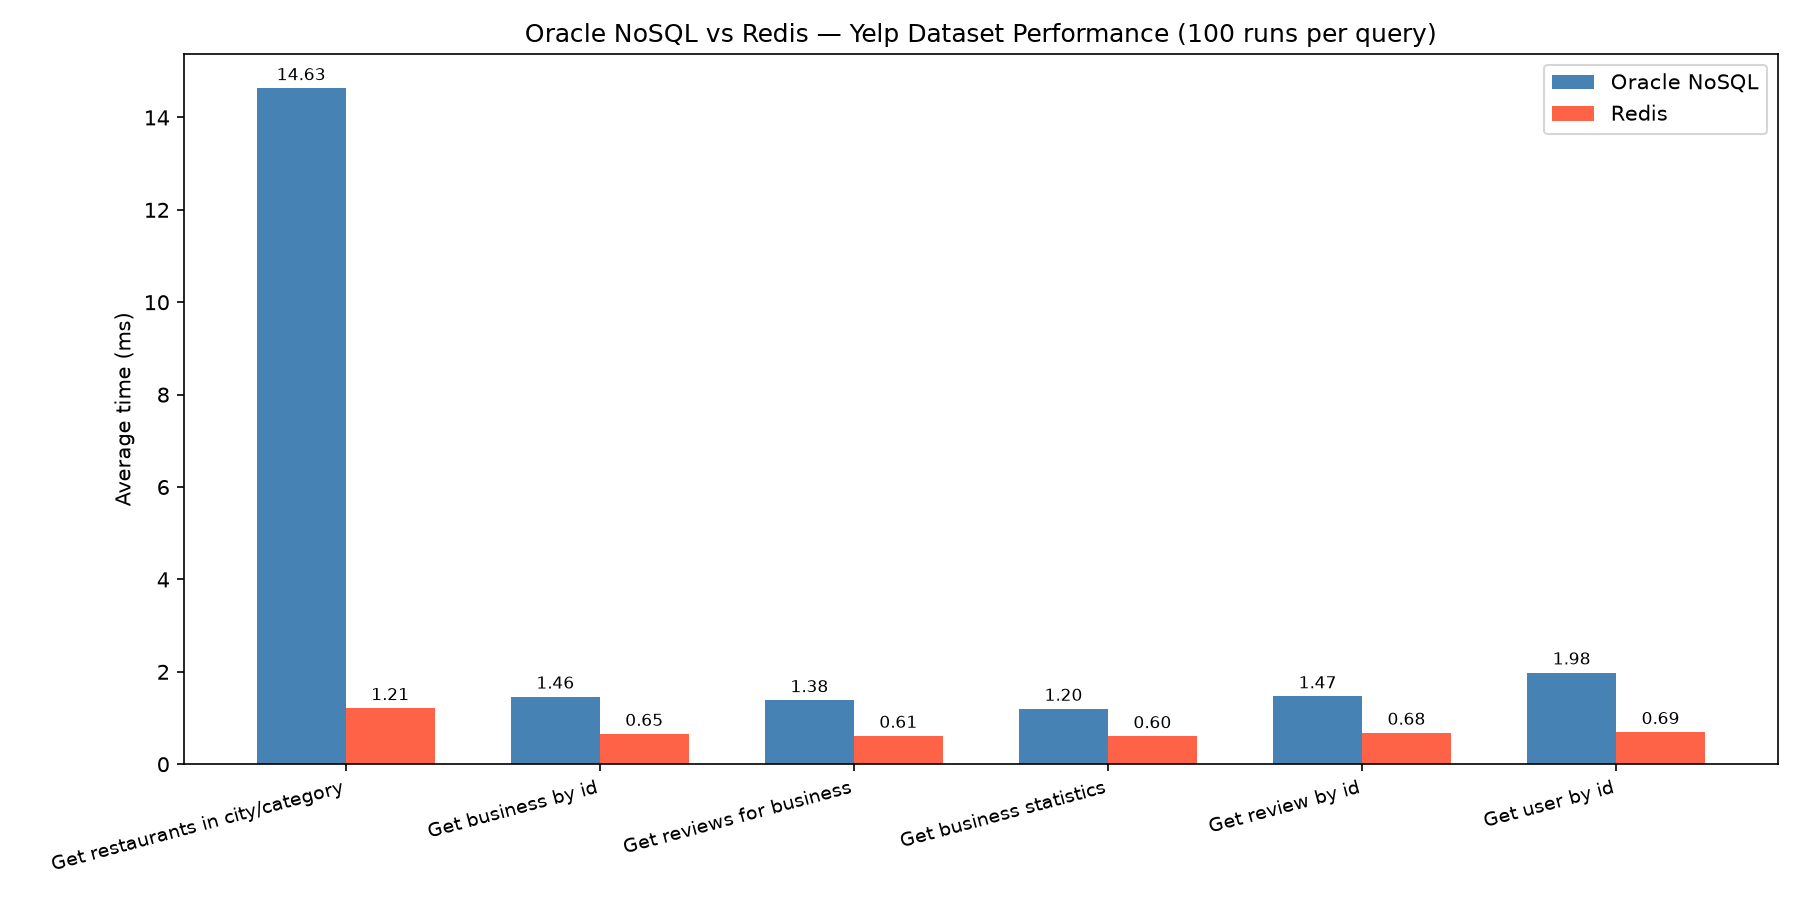
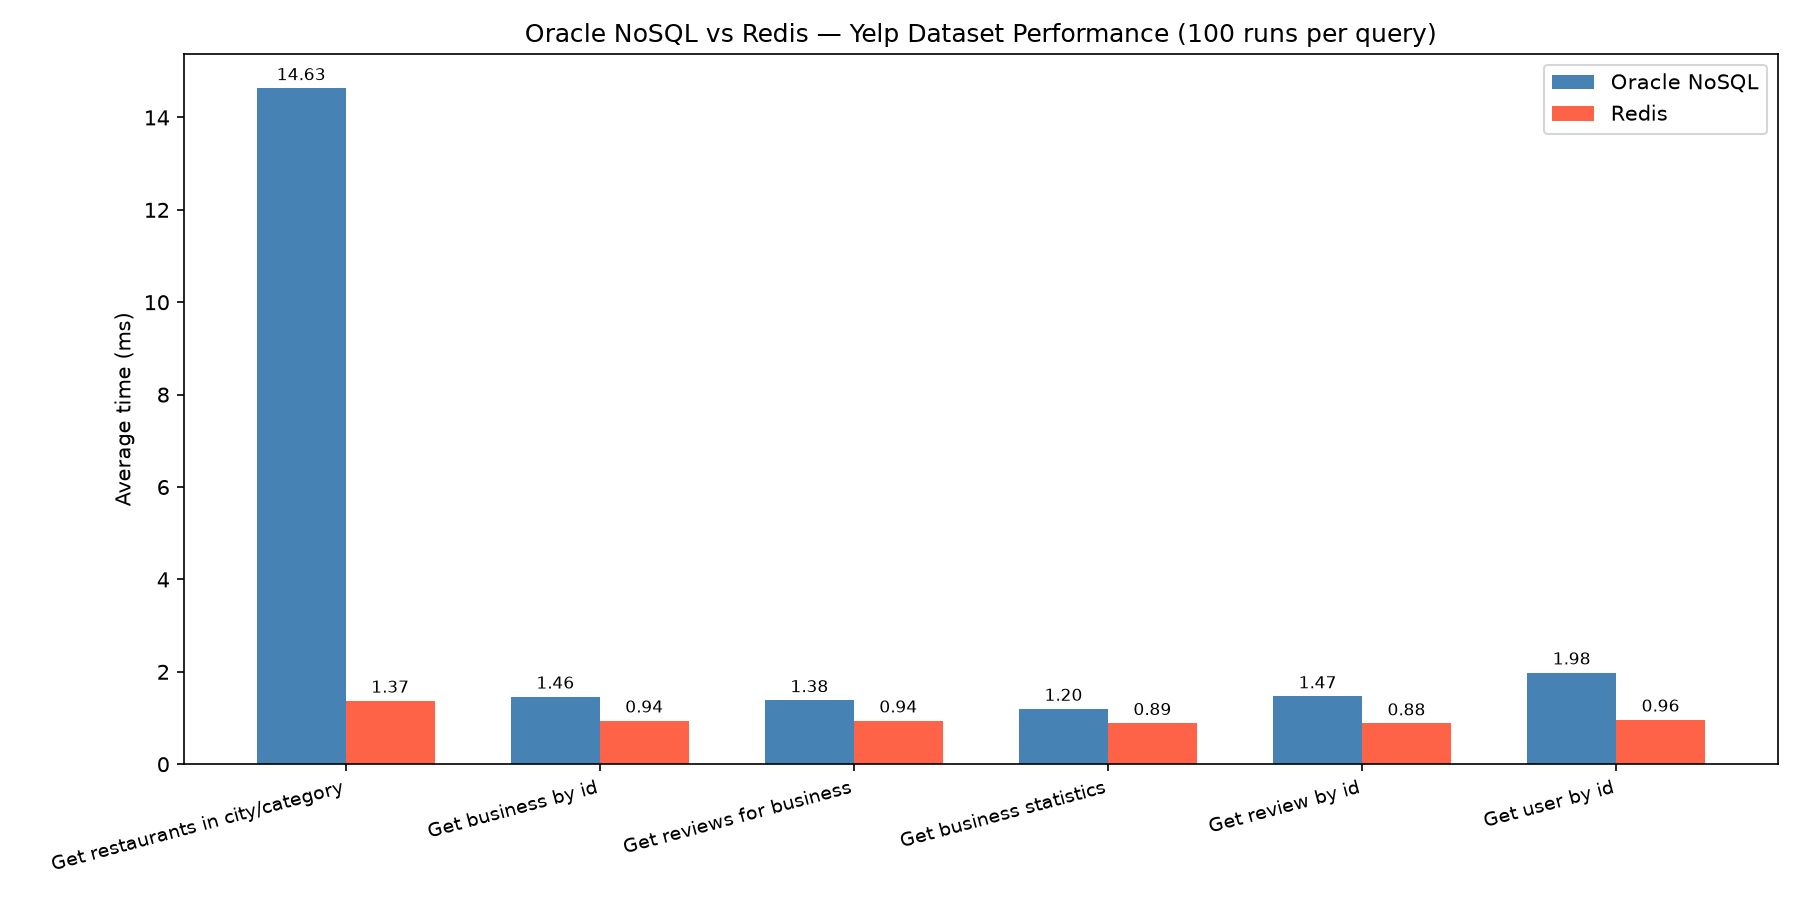
Initial commit

diff --git a/scripts/import_yelp_redis.py b/scripts/import_yelp_redis.py
@@ -12,7 +12,7 @@ USER_FILE     = DATA_DIR / "user_subset.jsonl"
 
 
 def get_client():
-    return redis.Redis(host="localhost", port=6380, decode_responses=True)
+    return redis.Redis(host="localhost", port=6379, decode_responses=True)
 
 
 def rset(r, key, value):
@@ -29,7 +29,7 @@ def load_jsonl(path):
 def main():
     r = get_client()
     r.ping()
-    print("Connected to Redis on port 6380.")
+    print("Connected to Redis on port 6379.")
 
     business_reviews   = defaultdict(list)
     user_reviews       = defaultdict(list)

diff --git a/scripts/performance_redis.py b/scripts/performance_redis.py
@@ -9,7 +9,7 @@ RESULTS_FILE = Path("results/redis_performance.csv")
 
 
 def get_client():
-    return redis.Redis(host="localhost", port=6380, decode_responses=True)
+    return redis.Redis(host="localhost", port=6379, decode_responses=True)
 
 
 def rget(r, key):

diff --git a/scripts/query_redis.py b/scripts/query_redis.py
@@ -3,7 +3,7 @@ import redis
 
 
 def get_client():
-    return redis.Redis(host="localhost", port=6380, decode_responses=True)
+    return redis.Redis(host="localhost", port=6379, decode_responses=True)
 
 
 def rget(r, key):

diff --git a/scripts/test_redis.py b/scripts/test_redis.py
@@ -2,7 +2,7 @@ import redis
 import json
 
 def get_client():
-    return redis.Redis(host="localhost", port=6380, decode_responses=True)
+    return redis.Redis(host="localhost", port=6379, decode_responses=True)
 
 def main():
     r = get_client()